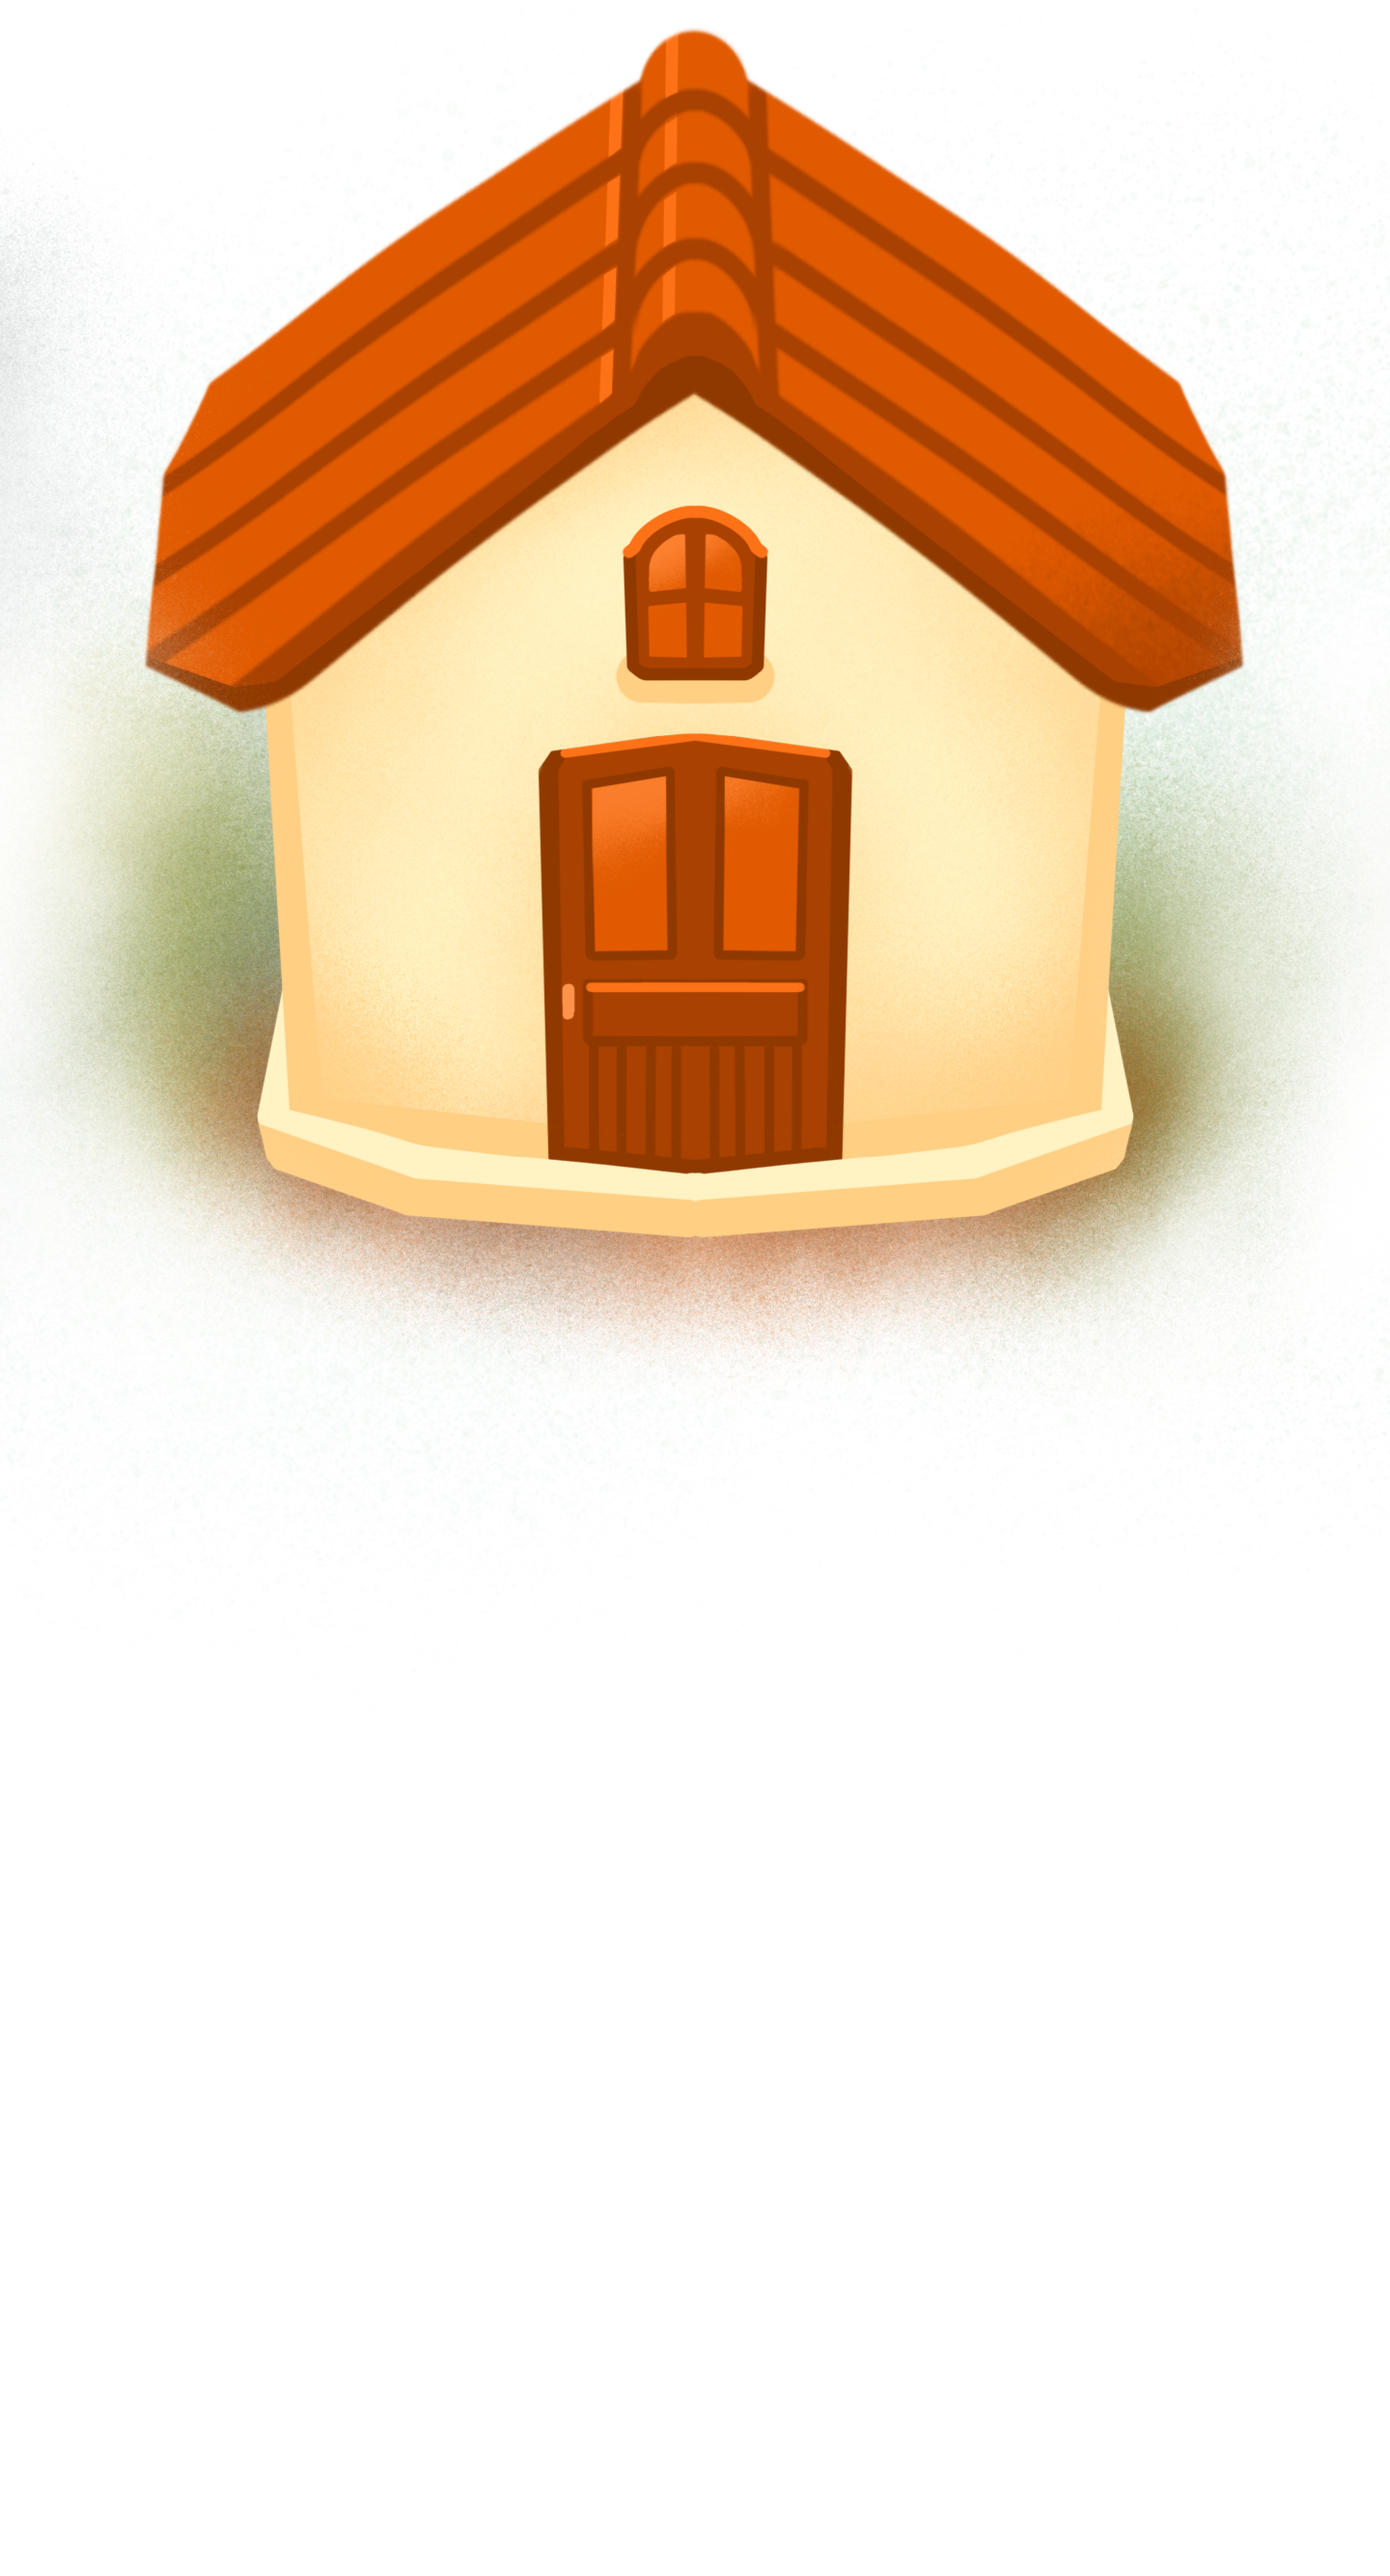
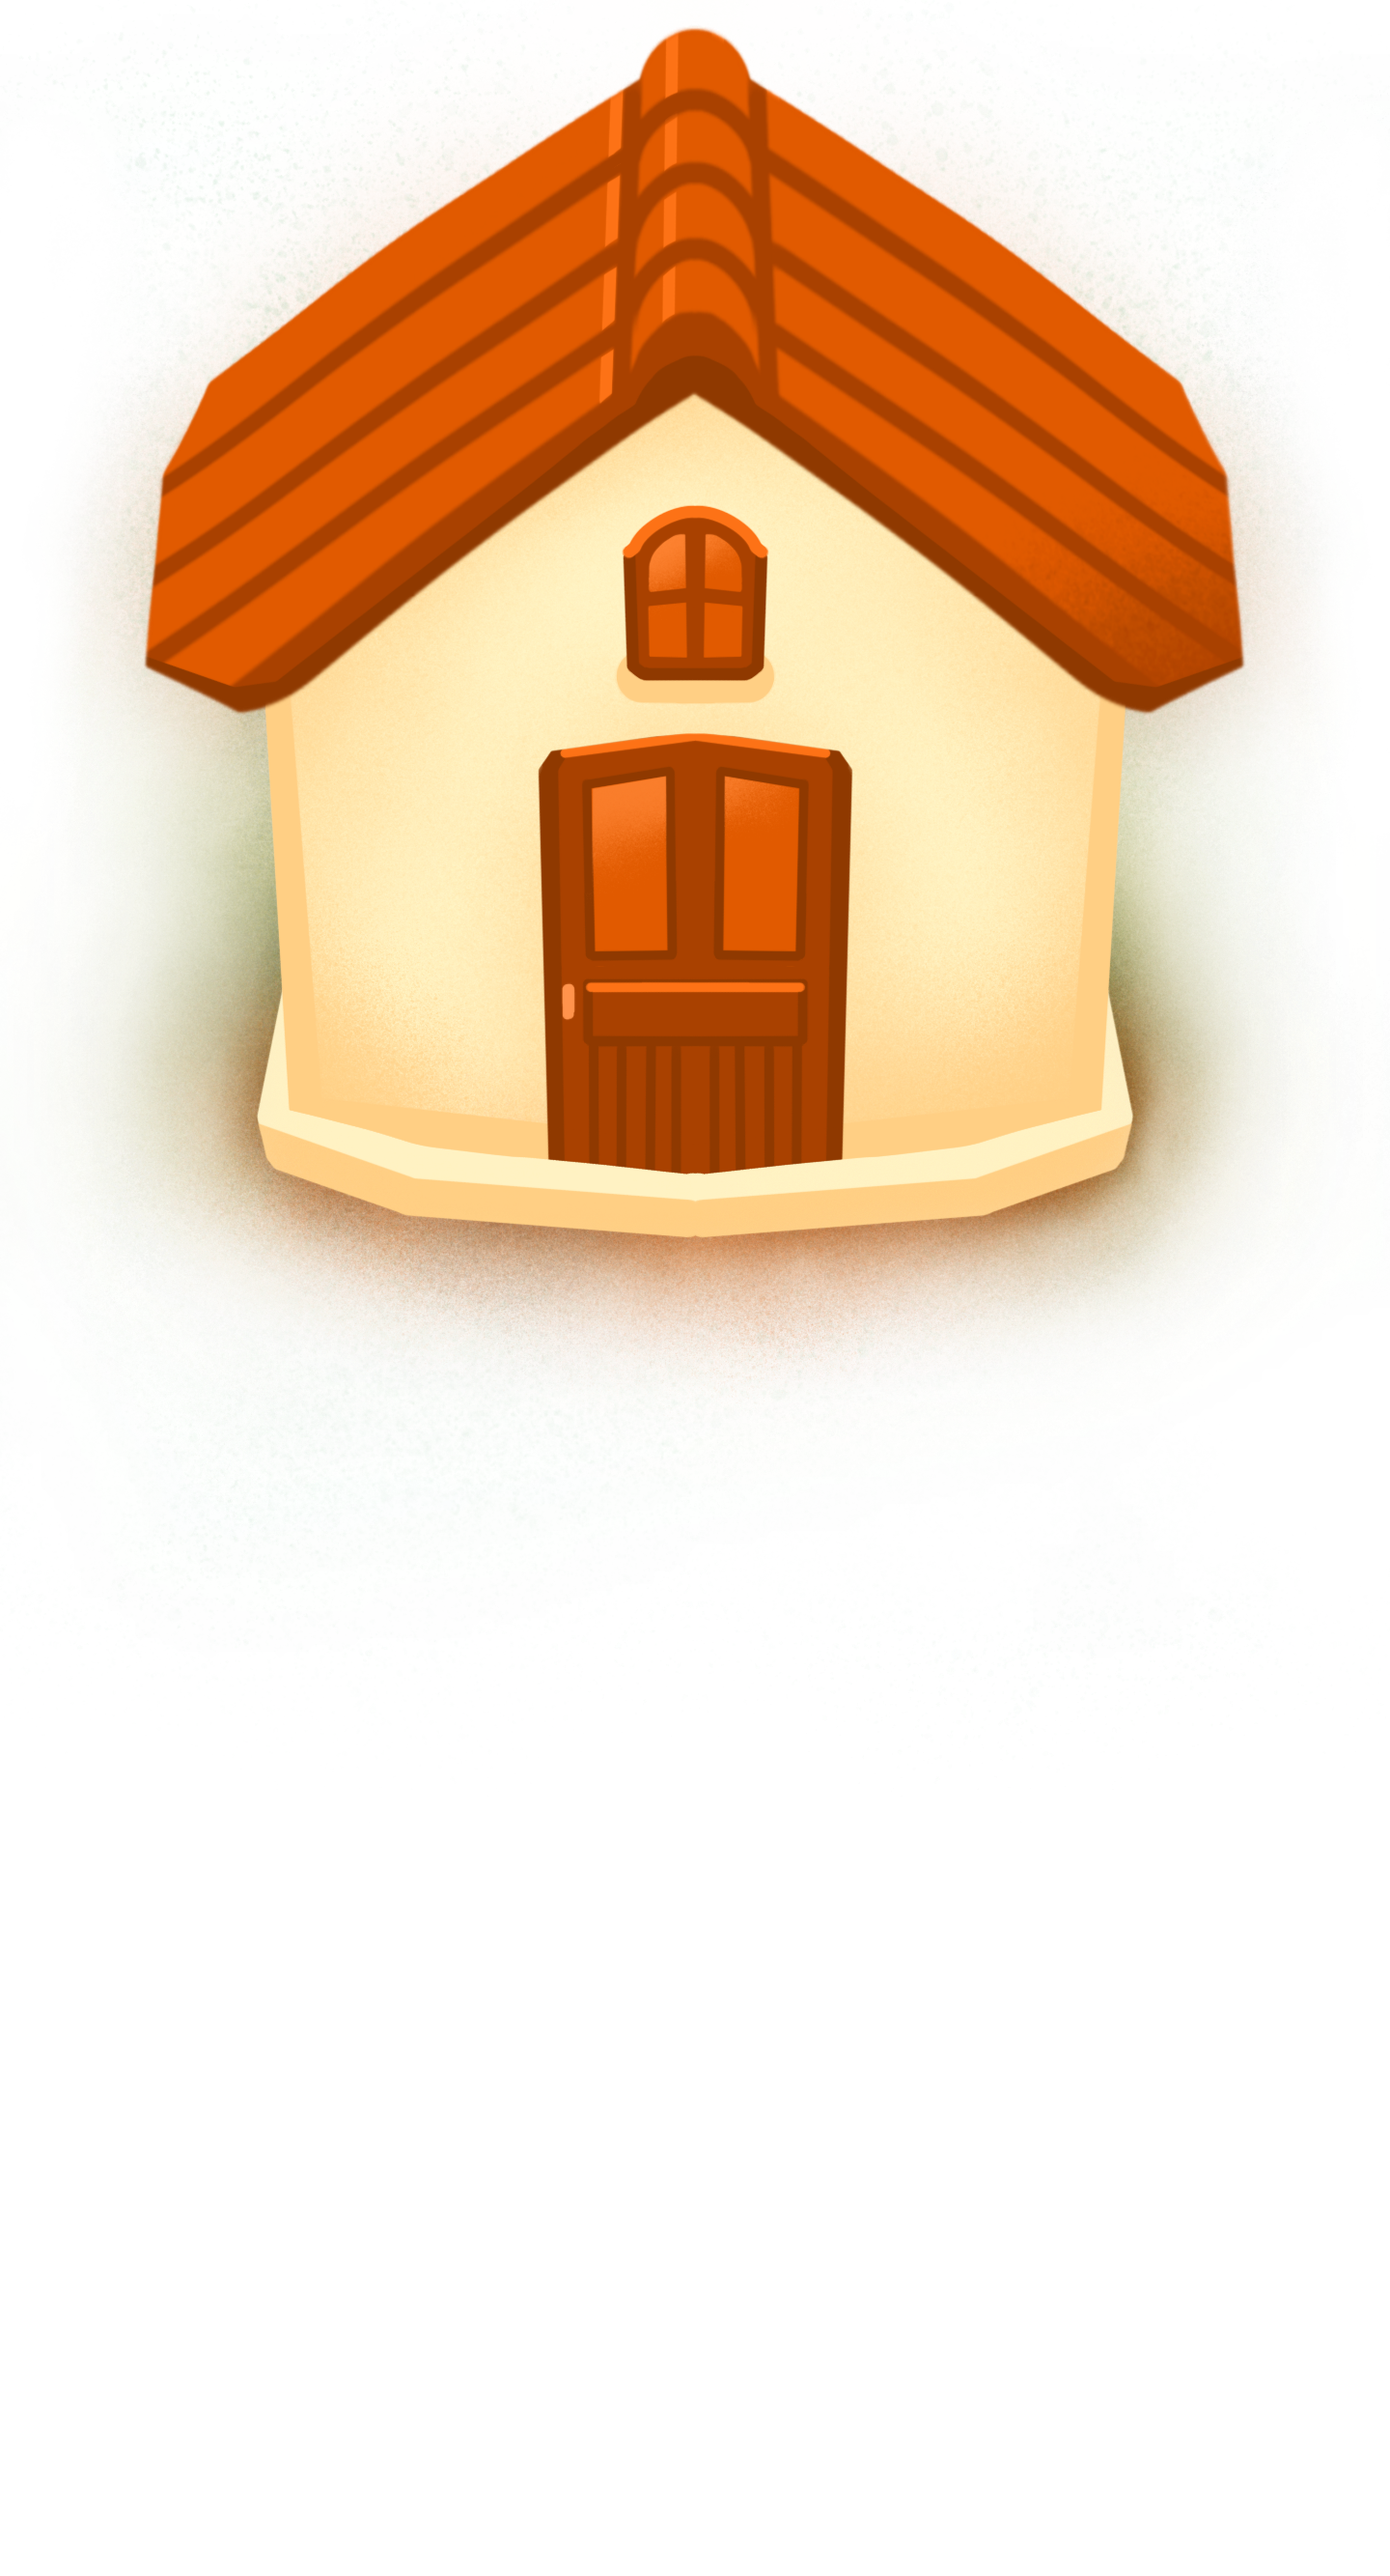
집 이미지 갈기 & 터치매니저 오류 수정 & 데이터매니저 디버그 제거

diff --git a/Assets/02.Scripts/Scenes/3_Farm/UIs/TouchManager.cs b/Assets/02.Scripts/Scenes/3_Farm/UIs/TouchManager.cs
@@ -10,8 +10,8 @@ public static class zoomVal {
 
 public class TouchManager : MonoBehaviour
 {
-#region // 터치 시 UI 객체 on/off
-    [Header("UI On Off")]
+#region UI On / Off
+    [Header("UI On / Off")]
     public GameObject[] UIObj;
     private bool isOn = false;
     private Vector2 touchStartPosition, touchEndPosition;
@@ -20,18 +20,12 @@ public class TouchManager : MonoBehaviour
 
     bool canPanning;
 
-    [Space(10f)]    
-#region // 줌인/줌아웃
-    [Header("Zoom")]
+#region Zoom
+
     Camera cam;
     private float slideSpeed = 0.1f;
-
-    // private readonly float zoomSpeed = 1.8f;
-    // private readonly float zoomInMax = 5f;
-    // private readonly float zoomOutMax = 16f;
-    // public float factor = 0.65f;
-
     private float scroll;
+
 #endregion
 
     private void Awake() 
@@ -127,11 +121,9 @@ public class TouchManager : MonoBehaviour
             cam.transform.position -= (Vector3)(deltaPos) * slideSpeed * Time.deltaTime * cam.orthographicSize;
 
             // /* clamp */
-            var clampX = (zoomOutMax - cam.orthographicSize) * cam.aspect;
-            // var clampY = zoomOutMax - cam.orthographicSize + factor;
-            var clampY = zoomOutMax - cam.orthographicSize;
+            var clampX = (zoomVal.zoomOutMax - cam.orthographicSize) * cam.aspect;
+            var clampY = zoomVal.zoomOutMax - cam.orthographicSize;
             var clampedPosX = Mathf.Clamp(cam.transform.position.x, -clampX, clampX);
-            // var clampedPosY = Mathf.Clamp(cam.transform.position.y, -clampY, clampY + (2-(clampY-factor)/10));
             var clampedPosY = Mathf.Clamp(cam.transform.position.y, -clampY, clampY);
             cam.transform.position = new Vector3(clampedPosX, clampedPosY, cam.transform.position.z);
         }
@@ -144,10 +136,8 @@ public class TouchManager : MonoBehaviour
 
             /* clamp */
             var clampX = (zoomVal.zoomOutMax - cam.orthographicSize) * cam.aspect;
-            // var clampY = zoomOutMax - cam.orthographicSize + factor;
             var clampY = zoomVal.zoomOutMax - cam.orthographicSize;
             var clampedPosX = Mathf.Clamp(cam.transform.position.x, -clampX, clampX);
-            // var clampedPosY = Mathf.Clamp(cam.transform.position.y, -clampY, clampY + (2-(clampY-factor)/10));
             var clampedPosY = Mathf.Clamp(cam.transform.position.y, -clampY, clampY);
             
             cam.transform.position = new Vector3(clampedPosX, clampedPosY, cam.transform.position.z);
@@ -199,10 +189,8 @@ public class TouchManager : MonoBehaviour
 
             /* clamp : prevent out of range */
             var clampX = (zoomVal.zoomOutMax * 2  * cam.aspect) / 2 - (cam.orthographicSize * 2 * cam.aspect) / 2;
-            // var clampY = zoomOutMax - cam.orthographicSize + factor;
             var clampY = zoomVal.zoomOutMax - cam.orthographicSize;
             var clampedPosX = Mathf.Clamp(cam.transform.position.x, -clampX, clampX);
-            // var clampedPosY = Mathf.Clamp(cam.transform.position.y, -clampY, clampY + (2-(clampY-factor)/10));
             var clampedPosY = Mathf.Clamp(cam.transform.position.y, -clampY, clampY);
             cam.transform.position = new Vector3(clampedPosX, clampedPosY, cam.transform.position.z);
         }
@@ -236,10 +224,8 @@ public class TouchManager : MonoBehaviour
 
             /* clamp */
             var clampX = (zoomVal.zoomOutMax * 2  * cam.aspect) / 2 - (cam.orthographicSize * 2 * cam.aspect) / 2;
-            // var clampY = zoomOutMax - cam.orthographicSize + factor;
             var clampY = zoomVal.zoomOutMax - cam.orthographicSize;
             var clampedPosX = Mathf.Clamp(cam.transform.position.x, -clampX, clampX);
-            // var clampedPosY = Mathf.Clamp(cam.transform.position.y, -clampY, clampY + (2-(clampY-factor)/10));
             var clampedPosY = Mathf.Clamp(cam.transform.position.y, -clampY, clampY);
             cam.transform.position = new Vector3(clampedPosX, clampedPosY, cam.transform.position.z);
         }

diff --git a/Assets/02.Scripts/Systems/Managers/DataManager.cs b/Assets/02.Scripts/Systems/Managers/DataManager.cs
@@ -52,7 +52,6 @@ public abstract class DataManager<T, Info, Data> : SingletonBase<T>
     {
         string str = RtrnNodeToStr(node);
         if (str == null || str == "") return 0;
-        Debug.Log(str);
         return int.Parse(str);
     }
     
